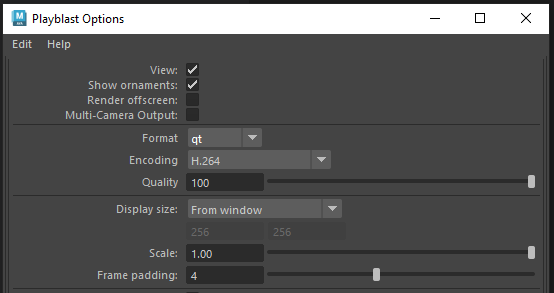
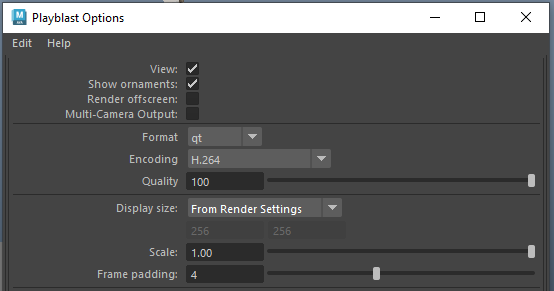
Now I'm Done

diff --git a/src/playblastTool.py b/src/playblastTool.py
@@ -62,7 +62,7 @@ class MayaPlayblastWidget(QWidget):
 
     def PlayblastBtnClicked(self):
         print(f"saving to: {self.mayaPlayblast.GetSavePath()}")
-        mc.playblast(format = "qt", filename = self.mayaPlayblast.GetSavePath(), sequenceTime = 0, clearCache = 1, viewer = 1, showOrnaments = 1, fp = 4, percent = 100, compression = "H.264", quality = 100, forceOverwrite = 1)
+        mc.playblast(format = "qt", filename = self.mayaPlayblast.GetSavePath(), sequenceTime = 0, clearCache = 1, viewer = 1, showOrnaments = 1, fp = 4, percent = 100, compression = "H.264", quality = 100, widthHeight = (1920, 1080), forceOverwrite = 1)
 
     def FileNameChanged(self, newName):
         self.mayaPlayblast.SetSaveName(newName)

diff --git a/README.md b/README.md
@@ -13,3 +13,11 @@
 * Next, you'll need to name your playblast in the "Name:" option
 * Then, you need to choose the folder you'll be saving your playblast to. To do this, you need to click the "..." button and the directory you choose will show up in the "Save Directory:" Box.
 * And That's It! All you need to do is press the "Playblast Current Window" Button and you're animation will playblast your current window with the settings shown above! 
+
+### Why did I make this tool?
+
+* I have often struggled with accidentally playblasting and it can get tedius choosing the settings every time.
+
+* By creating a playblast shelf button with the settings already set, I get rid of the tedius step and have a less chance to playblast accidentally. 
+
+* On top of that, it's just easier to see and access. 
